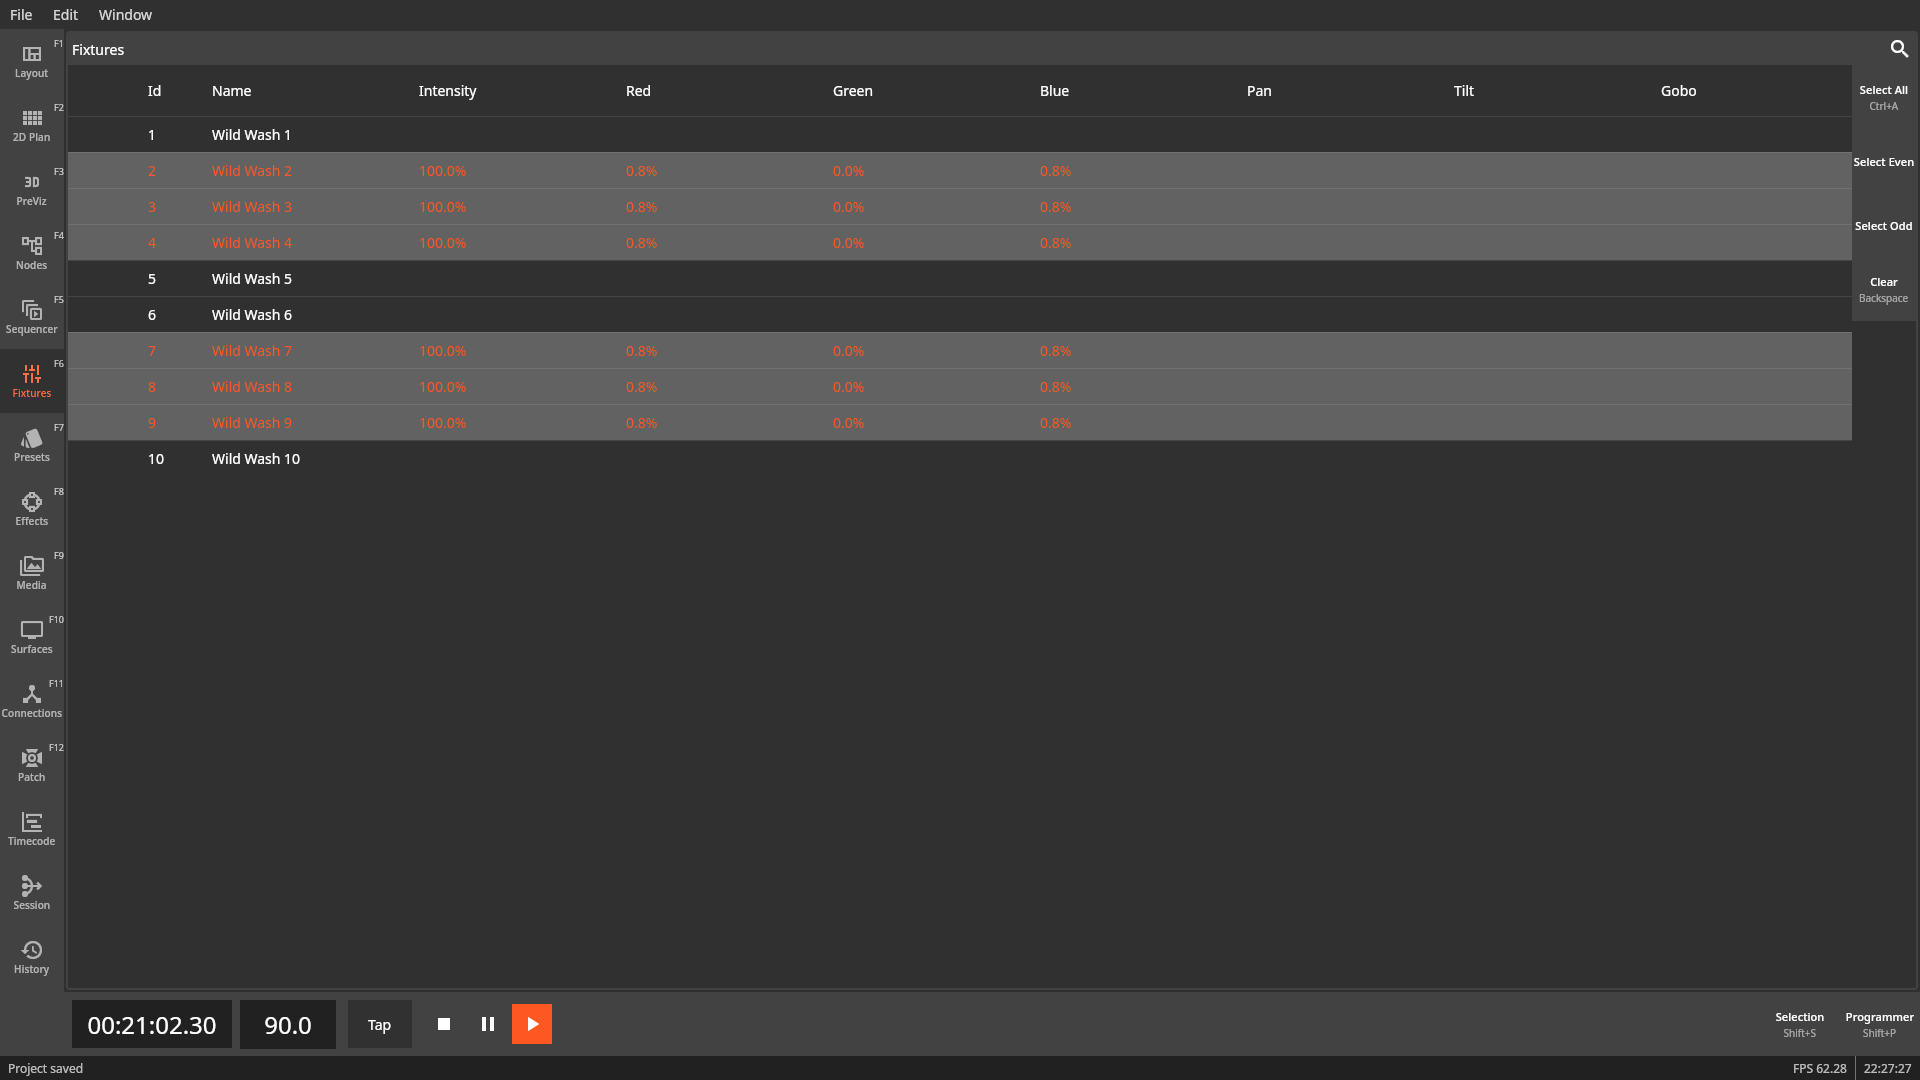
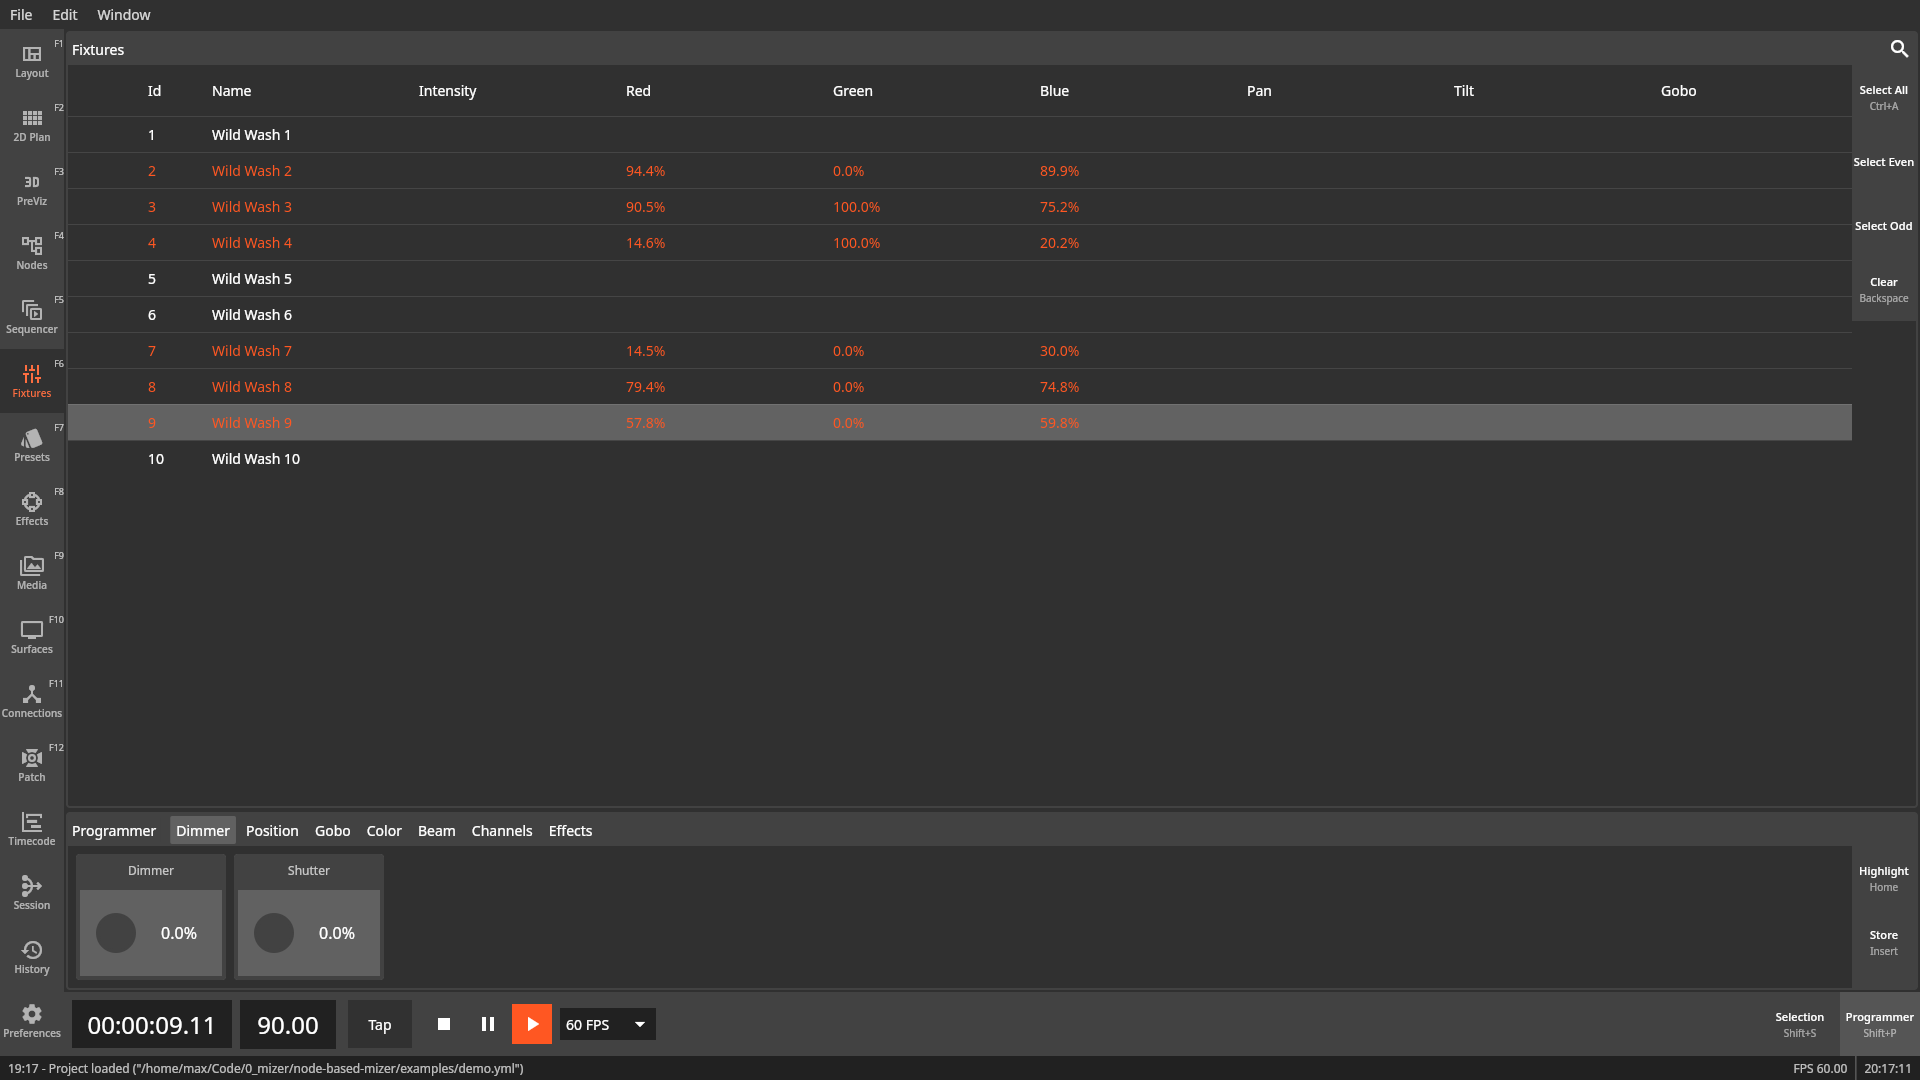
chore(docs): add tool to automatically capture docu screenshots
uses same foundation as the bdd tests

diff --git a/tests/screenshots.py b/tests/screenshots.py
@@ -1,0 +1,60 @@
+from time import sleep
+
+import pyautogui
+
+import infrastructure.interactions
+from infrastructure.launcher import Mizer
+from infrastructure.views import *
+
+with Mizer() as mizer:
+    mizer.start('examples/demo.yml')
+    # wait for application to open
+    sleep(1)
+
+    pyautogui.hotkey('win', 'f')
+
+    open_view(View.LAYOUT)
+    infrastructure.interactions.take_screenshot('../docs/screenshots/layout.png')
+
+    open_view(View.PLAN)
+    infrastructure.interactions.take_screenshot('../docs/screenshots/plan.png')
+
+    open_view(View.NODES)
+    infrastructure.interactions.move_to_center()
+    pyautogui.dragRel(550, 0, button='middle')
+    pyautogui.moveRel(-950, -200)
+    pyautogui.click()
+    infrastructure.interactions.move_to_center()
+    pyautogui.scroll(-5)
+    pyautogui.dragRel(0, -100, button='middle')
+    infrastructure.interactions.take_screenshot('../docs/screenshots/nodes.png')
+
+    open_view(View.FIXTURES)
+    infrastructure.interactions.click_on_text('2')
+    infrastructure.interactions.click_on_text('3')
+    infrastructure.interactions.click_on_text('4')
+    infrastructure.interactions.click_on_text('7')
+    infrastructure.interactions.click_on_text('8')
+    infrastructure.interactions.click_on_text('9')
+    infrastructure.interactions.take_screenshot('../docs/screenshots/programmer.png')
+
+    open_view(View.PRESETS)
+    infrastructure.interactions.take_screenshot('../docs/screenshots/presets.png')
+
+    open_view(View.CONNECTIONS)
+    infrastructure.interactions.take_screenshot('../docs/screenshots/connections.png')
+
+    open_view(View.PATCH)
+    infrastructure.interactions.take_screenshot('../docs/screenshots/patch.png')
+
+    open_view(View.SEQUENCER)
+    infrastructure.interactions.take_screenshot('../docs/screenshots/sequencer.png')
+
+    infrastructure.interactions.click_on_text('Strobe')
+    infrastructure.interactions.take_screenshot('../docs/screenshots/sequencer_cue_list.png')
+
+    infrastructure.interactions.click_on_text('Sequence Settings')
+    infrastructure.interactions.take_screenshot('../docs/screenshots/sequencer_settings.png')
+
+    infrastructure.interactions.click_on_text('Track Sheet')
+    infrastructure.interactions.take_screenshot('../docs/screenshots/sequencer_track_sheet.png')
